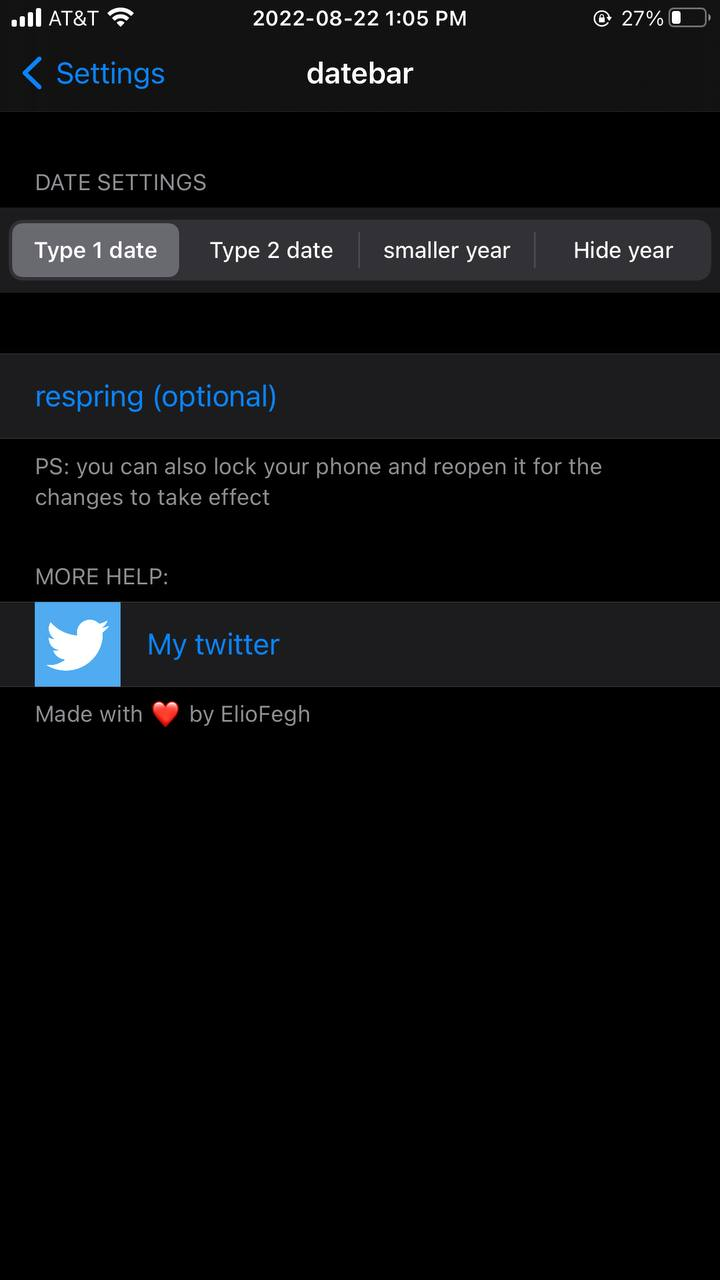
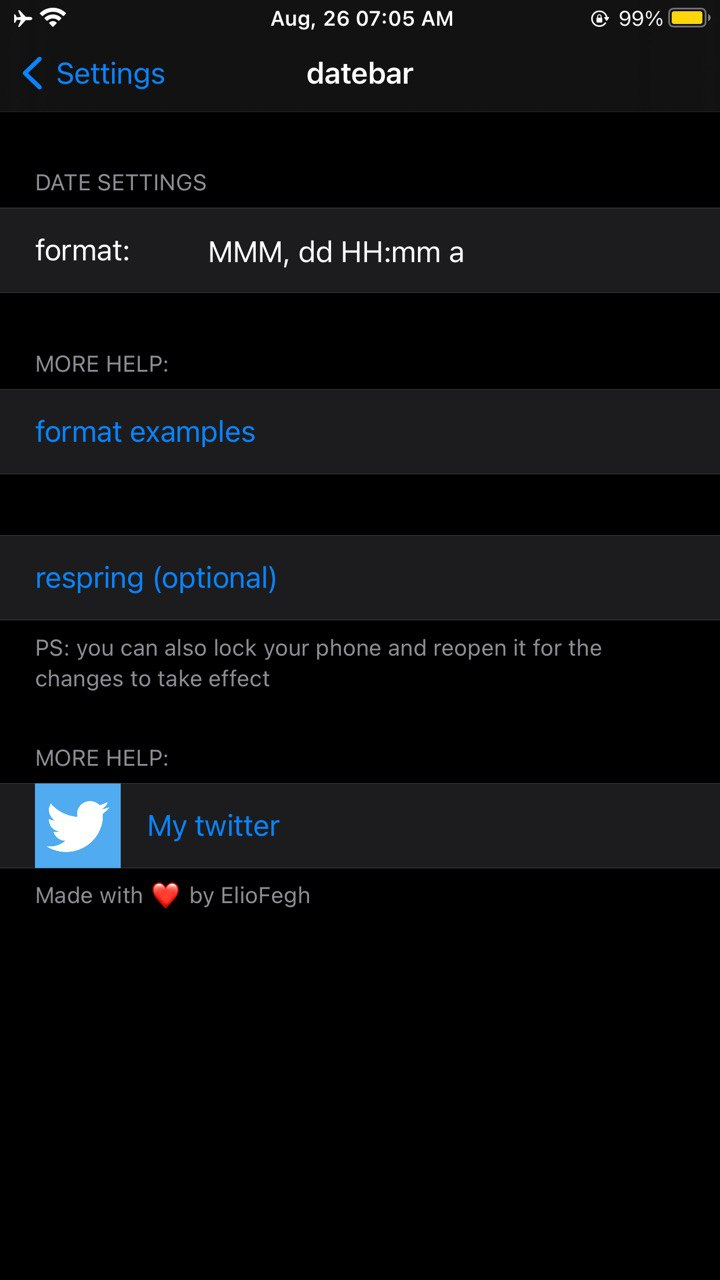
date bar update

diff --git a/depictions/date-bar/date-bar.html b/depictions/date-bar/date-bar.html
@@ -1,16 +1,14 @@
 <!DOCTYPE html><html lang=en><head><meta charset=utf-8><title>date bar</title><meta name=viewport content="initial-scale=1, maximum-scale=1, user-scalable=0"><link rel=stylesheet href="styles.css"><script src="script.js"></script><body>
 <h2 id="theTitle" role=header>date bar</h2>
+<h2 role=header>Open-Source</h2>
+<ul><li><div data-min-ios=7.0 id=prerequisite>
+<p id=pt><a href="https://github.com/ElioFegh/date-bar">Github Link</a></div></ul>
+
+
 <h2 role=header>Compatibility</h2>
 <ul><li><div data-min-ios=7.0 id=prerequisite>
 <p id=pt>Compatible with iOS 11 --&gt; iOS 14.8.1</div></ul><script src=../../../../../../misc/iosver.js></script><h2 role=header>Description</h2><ul>
-  <li>adds 
-  YYYY-MM-DD to the status bar time
-  <li>adds 
-  E, DD MM to the status bar time    
-  <li>adds 
-  YY-MM-DD to the status bar time  
-  <li>adds MM-DD to the status bar time  
-</ul>
+  <li>adds more date to the status bar</ul>
   <h2>Screenshots</h2>
   <div class="screenshots-container">
 
@@ -22,7 +20,9 @@
 
 </div>
 <h2 role=header>Changelog</h2><ul>
-  <li>1.1- added 3 more date styles <br>
-  -added preference bundle</li>
+  <li>1.2-Vey big changes and bug fixing</li>
+  <li>-allow the user to choose whatever date he wants</li>
+   <li>1.1- added 3 more date styles <br>
+    -added preference bundle</li>
   <li>1.0-initial release.</li>  
 </ul>
